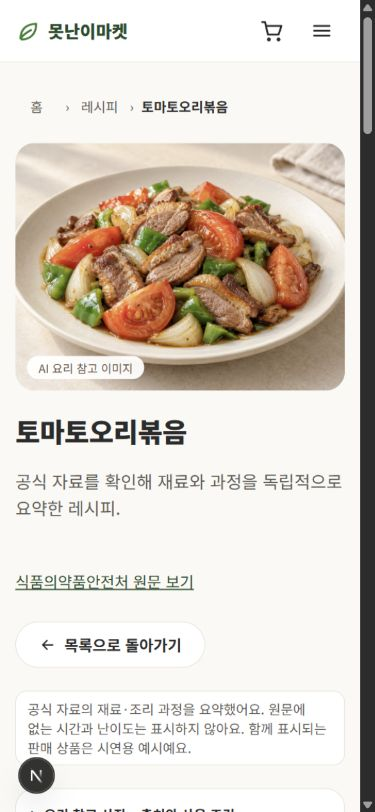
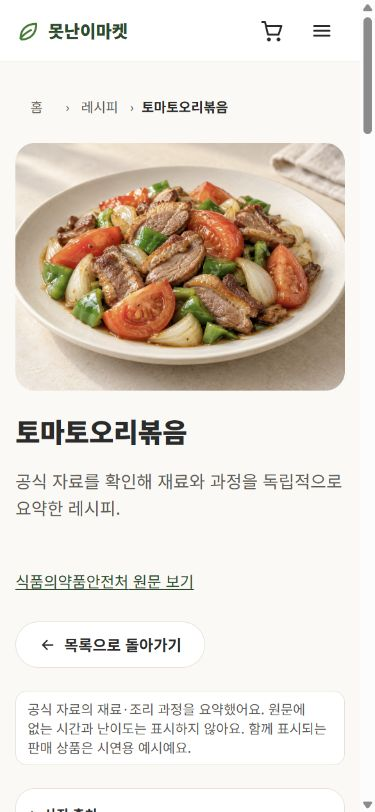
style: remove recipe image badges and simplify photo credits

diff --git a/src/components/recipes/RecipePhotoCredits.tsx b/src/components/recipes/RecipePhotoCredits.tsx
@@ -5,33 +5,30 @@ export function RecipePhotoCredits({ recipes }: { recipes: Recipe[] }) {
     ...new Map(
       recipes
         .filter((r) => r.photoReference)
-        .map((r) => [r.photoReference!.source, r.photoReference!]),
+        .map((r) => [r.photoReference!.imageUrl, r.photoReference!]),
     ).values(),
   ];
   if (!photos.length) return null;
   return (
     <details className="my-6 rounded-card border border-line bg-surface p-4 text-sm text-ink-muted">
-      <summary className="cursor-pointer font-bold text-ink">
-        요리 참고 사진 · 출처와 사용 조건
-      </summary>
-      <p className="mt-3">
-        사진과 AI 생성 이미지는 요리의 참고 이미지이며 이 레시피를 그대로 조리한
-        결과는 아니에요. 재료·양·조리 결과는 다를 수 있어요.
-      </p>
+      <summary className="cursor-pointer font-bold text-ink">사진 출처</summary>
       <ul className="mt-3 space-y-3">
         {photos.map((photo) => (
-          <li key={photo.source}>
+          <li key={photo.imageUrl}>
             <a
               href={photo.source}
               target="_blank"
               rel="noopener noreferrer"
               className="underline"
             >
-              {photo.title.replace("File:", "")}
+              {photo.title
+                .replace("File:", "")
+                .replace(" AI 요리 참고 이미지", " 이미지")
+                .replace(" AI 참고 이미지", " 이미지")}
             </a>{" "}
-            · {photo.author} ·{" "}
+            · {photo.generated ? "OpenAI 제작" : photo.author} ·{" "}
             {photo.generated ? (
-              <span>AI 생성 이미지 · 실제 촬영 사진 아님 · 화면 크롭</span>
+              <span>화면 크롭</span>
             ) : (
               <>
                 <a

diff --git a/src/components/recipes/RecipeImage.tsx b/src/components/recipes/RecipeImage.tsx
@@ -25,24 +25,11 @@ export function RecipeImage({
     <div className="relative">
       <SafeImage
         src={dishUrl ?? substituteUrl}
-        alt={
-          recipe.photoReference
-            ? `${recipe.name}의 ${recipe.photoReference.generated ? "AI 요리 참고 이미지" : "유사 요리 참고 사진"} (실제 조리 결과 아님)`
-            : isSubstitute
-              ? `${recipe.name}에 쓰는 재료 사진`
-              : `${recipe.name} 사진`
-        }
+        alt={isSubstitute ? `${recipe.name} 재료 사진` : `${recipe.name} 사진`}
         className={className}
         priority={priority}
         placeholderText="요리 사진 준비 중"
       />
-      {recipe.photoReference && (
-        <span className="absolute bottom-3 left-3 rounded-full bg-surface/95 px-3 py-1 text-xs text-bark">
-          {recipe.photoReference.generated
-            ? "AI 요리 참고 이미지"
-            : `유사 요리 참고 사진 · ${recipe.photoReference.license}`}
-        </span>
-      )}
       {isSubstitute && (
         <span className="chip absolute bottom-3 left-3 bg-surface/95 text-bark">
           재료 사진 · 요리 사진 준비 중
